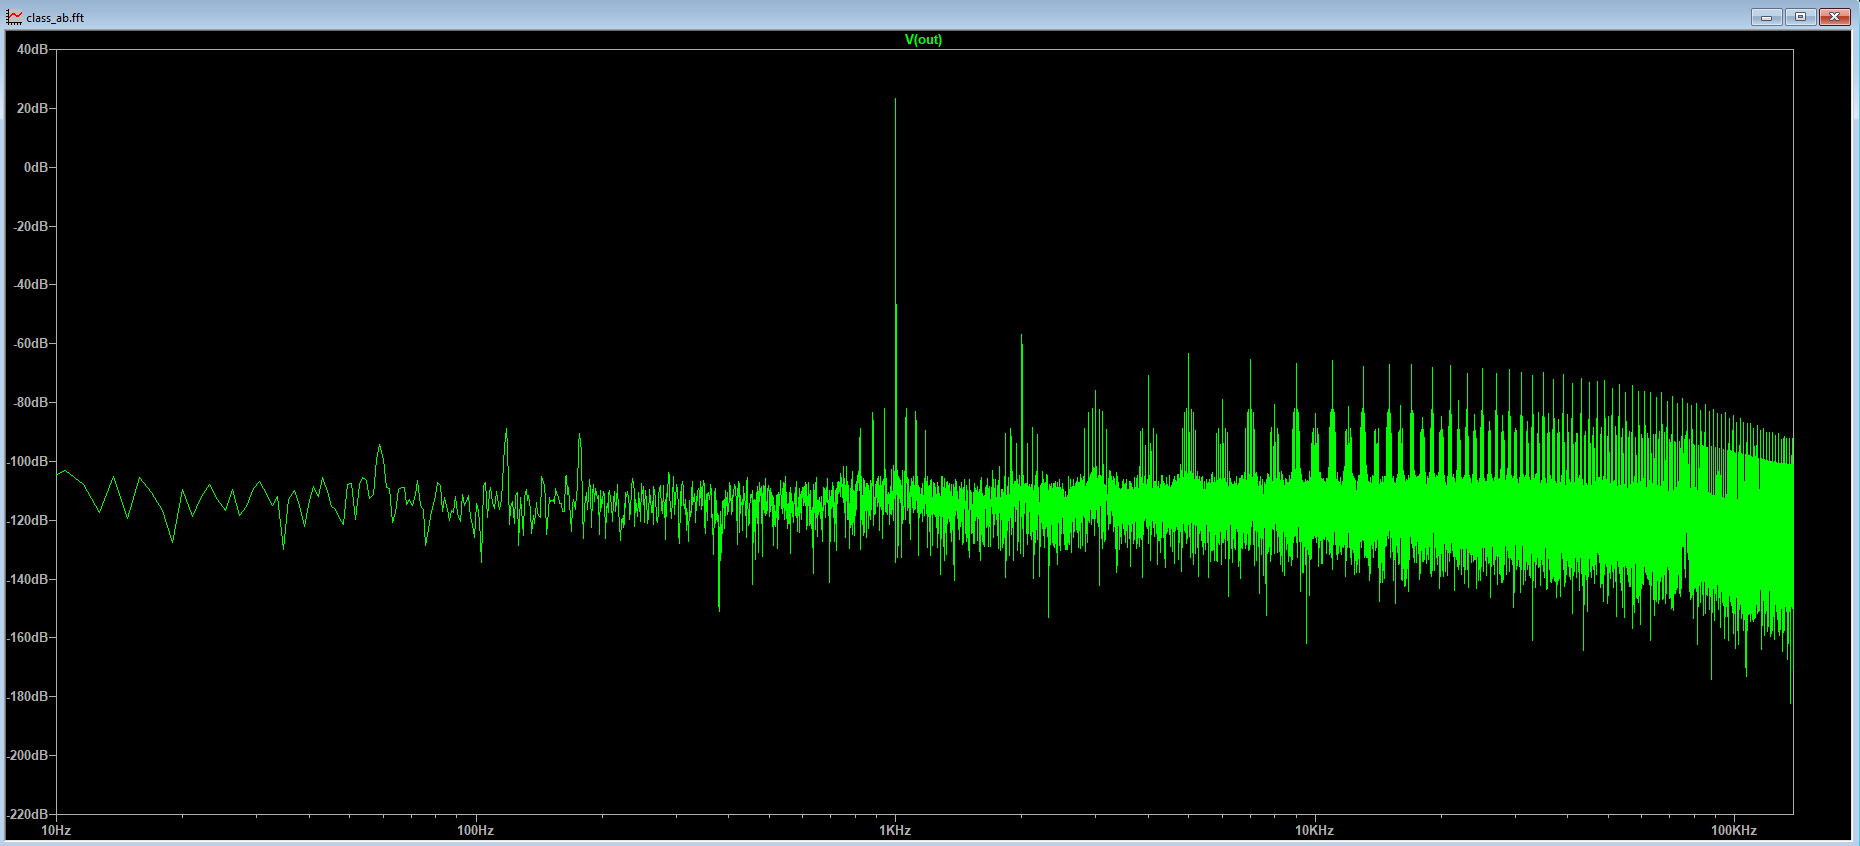
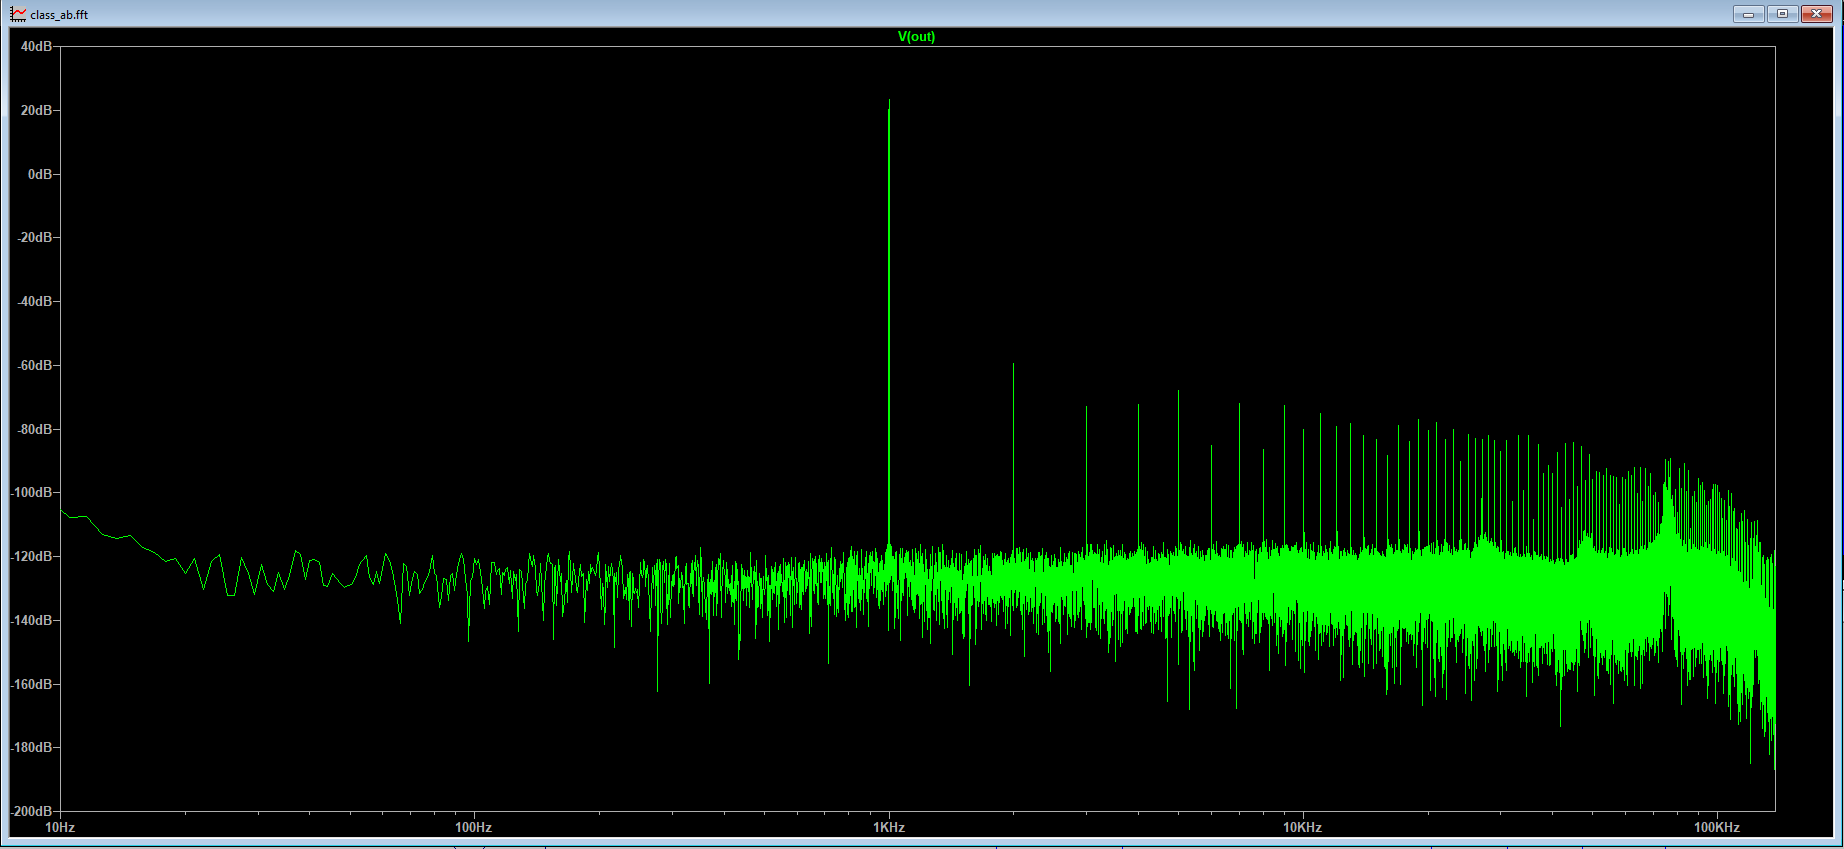
Updated THD numbers

Changed region(s): [[0.0, 0.0, 1.0, 1.0]]

diff --git a/README.md b/README.md
@@ -60,29 +60,29 @@ as well.
 All simulations are done with an 8 ohm resistive dummy load, 1V input at 1kHz.
 
 ### THD
-At a fairly moderate quiescent current of 15mA, I get a THD of 0.025%. A THD below 0.1% is considered to be inaudible, so these numbers
+At a fairly moderate quiescent current of 15mA, I get a THD of 0.019%. A THD below 0.1% is considered to be inaudible, so these numbers
 are fine by me. I know there are audiophiles who insist on THD numbers <0.0001%, but I'm not one of them. Inaudible is just fine by me.
 
 I've gotten suggestions that adding an emitter follower to the VAS might improve THD. I might try that, but I have a feeling there will 
 be more pressing matters than getting the THD even more inaudible. 
 
 ```Fourier components of V(out)
-DC component:-0.00709555
+DC component:-0.00675533
 
 Harmonic	Frequency	 Fourier 	Normalized	 Phase  	Normalized
  Number 	  [Hz]   	Component	 Component	[degree]	Phase [deg]
-    1   	 1.000e+3	 2.086e+1	 1.000e+0	   90.68°	    0.00°
-    2   	 2.000e+3	 3.254e-3	 1.560e-4	  -81.18°	 -171.86°
-    3   	 3.000e+3	 1.410e-3	 6.760e-5	   15.46°	  -75.22°
-    4   	 4.000e+3	 1.064e-3	 5.098e-5	  101.85°	   11.17°
-    5   	 5.000e+3	 1.038e-3	 4.975e-5	 -151.33°	 -242.01°
-    6   	 6.000e+3	 2.289e-4	 1.097e-5	  -96.94°	 -187.62°
-    7   	 7.000e+3	 2.021e-4	 9.686e-6	 -154.64°	 -245.32°
-    8   	 8.000e+3	 1.447e-4	 6.935e-6	  106.76°	   16.08°
-    9   	 9.000e+3	 5.116e-4	 2.452e-5	 -167.01°	 -257.69°
-   10   	 1.000e+4	 1.460e-4	 6.996e-6	 -115.50°	 -206.18°
-Partial Harmonic Distortion: 0.018677%
-Total Harmonic Distortion:   0.025368%
+    1   	 1.000e+3	 2.087e+1	 1.000e+0	   90.66°	    0.00°
+    2   	 2.000e+3	 1.490e-3	 7.140e-5	  -77.43°	 -168.10°
+    3   	 3.000e+3	 3.155e-4	 1.512e-5	   38.31°	  -52.35°
+    4   	 4.000e+3	 3.378e-4	 1.619e-5	  106.45°	   15.78°
+    5   	 5.000e+3	 5.623e-4	 2.694e-5	 -129.10°	 -219.76°
+    6   	 6.000e+3	 7.723e-5	 3.700e-6	  129.91°	   39.24°
+    7   	 7.000e+3	 3.638e-4	 1.743e-5	 -163.17°	 -253.83°
+    8   	 8.000e+3	 6.704e-5	 3.213e-6	 -144.07°	 -234.73°
+    9   	 9.000e+3	 3.393e-4	 1.626e-5	 -174.70°	 -265.37°
+   10   	 1.000e+4	 1.427e-4	 6.838e-6	 -141.03°	 -231.69°
+Partial Harmonic Distortion: 0.008339%
+Total Harmonic Distortion:   0.018652%
 ```
 
 ![FFT](images/fft.png)
